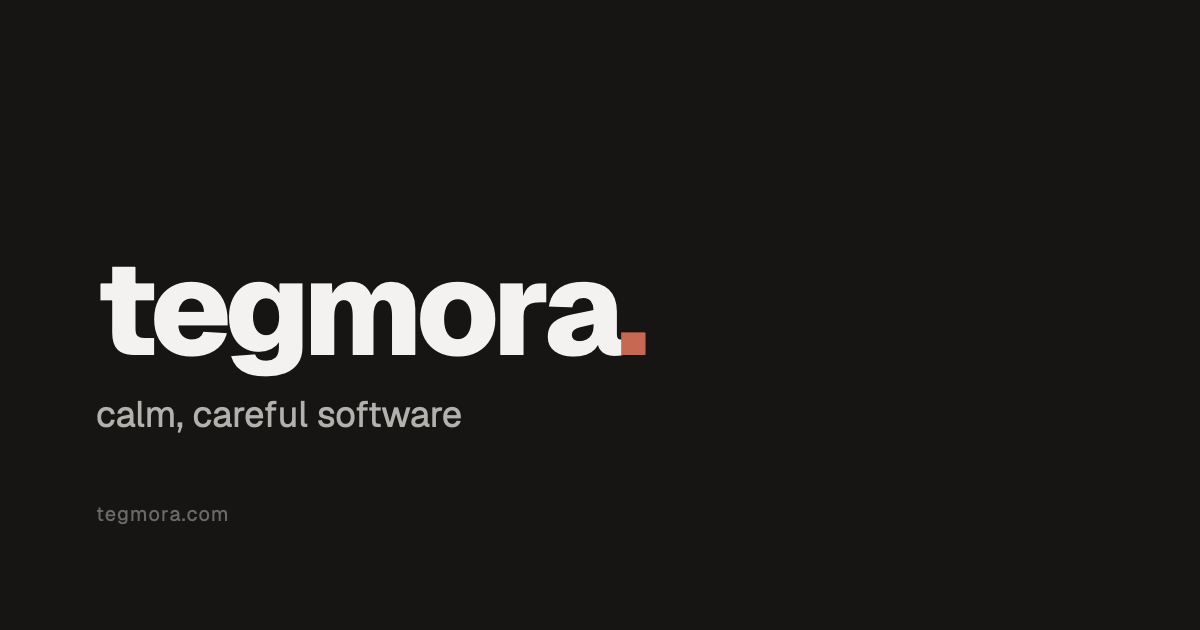
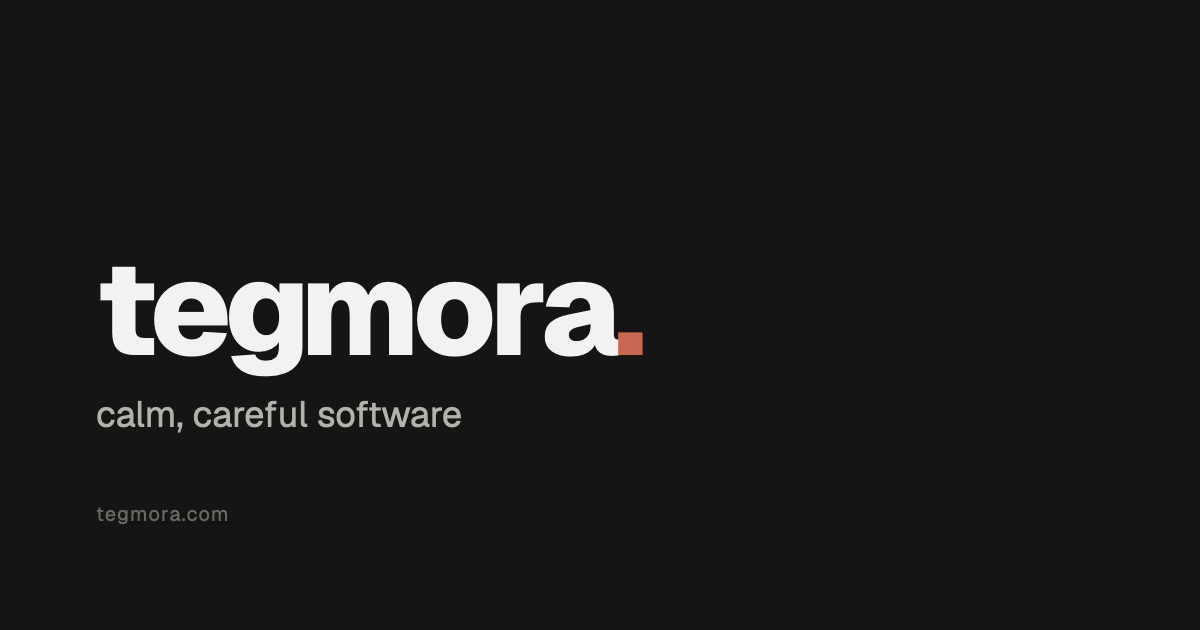
Typography: honor typed casing in titles, hand-kern wordmark g-m gap
- Remove global h1 text-transform so 'Excerpta' renders as typed
- Optical kern between g and m in the wordmark (h1, Wordmark, OG image)
- Drop inert ss01/cv11 font-feature-settings (stripped from subset fonts)

Changed region(s): [[0.2467, 0.4524, 0.5242, 0.573]]

diff --git a/src/styles/global.css b/src/styles/global.css
@@ -59,7 +59,6 @@ html, body {
   font-family: 'Geist', system-ui, -apple-system, sans-serif;
   -webkit-font-smoothing: antialiased;
   -moz-osx-font-smoothing: grayscale;
-  font-feature-settings: "ss01" on, "cv11" on;
 }
 a { color: var(--accent); text-decoration: none; }
 a:hover { text-decoration: underline; text-underline-offset: 3px; }
@@ -73,8 +72,9 @@ a:hover { text-decoration: underline; text-underline-offset: 3px; }
 .wm { display: inline-block; font-family: 'Geist', sans-serif; font-weight: 800; font-size: 22px; letter-spacing: -0.045em; color: var(--title); margin-bottom: 56px; }
 .wm .period { color: var(--accent); }
 .wm:hover { text-decoration: none; color: var(--title); }
-h1 { font-family: 'Geist', sans-serif; font-weight: 800; font-size: 92px; line-height: 0.9; letter-spacing: -0.055em; margin: 0; color: var(--title); text-transform: lowercase; }
+h1 { font-family: 'Geist', sans-serif; font-weight: 800; font-size: 92px; line-height: 0.9; letter-spacing: -0.055em; margin: 0; color: var(--title); }
 h1 .period { color: var(--accent); }
+.kern-g { margin-right: -0.022em; }
 
 /* Intro */
 .intro { font-size: 19px; line-height: 1.62; color: var(--body); margin: 30px 0 0; max-width: 480px; }
